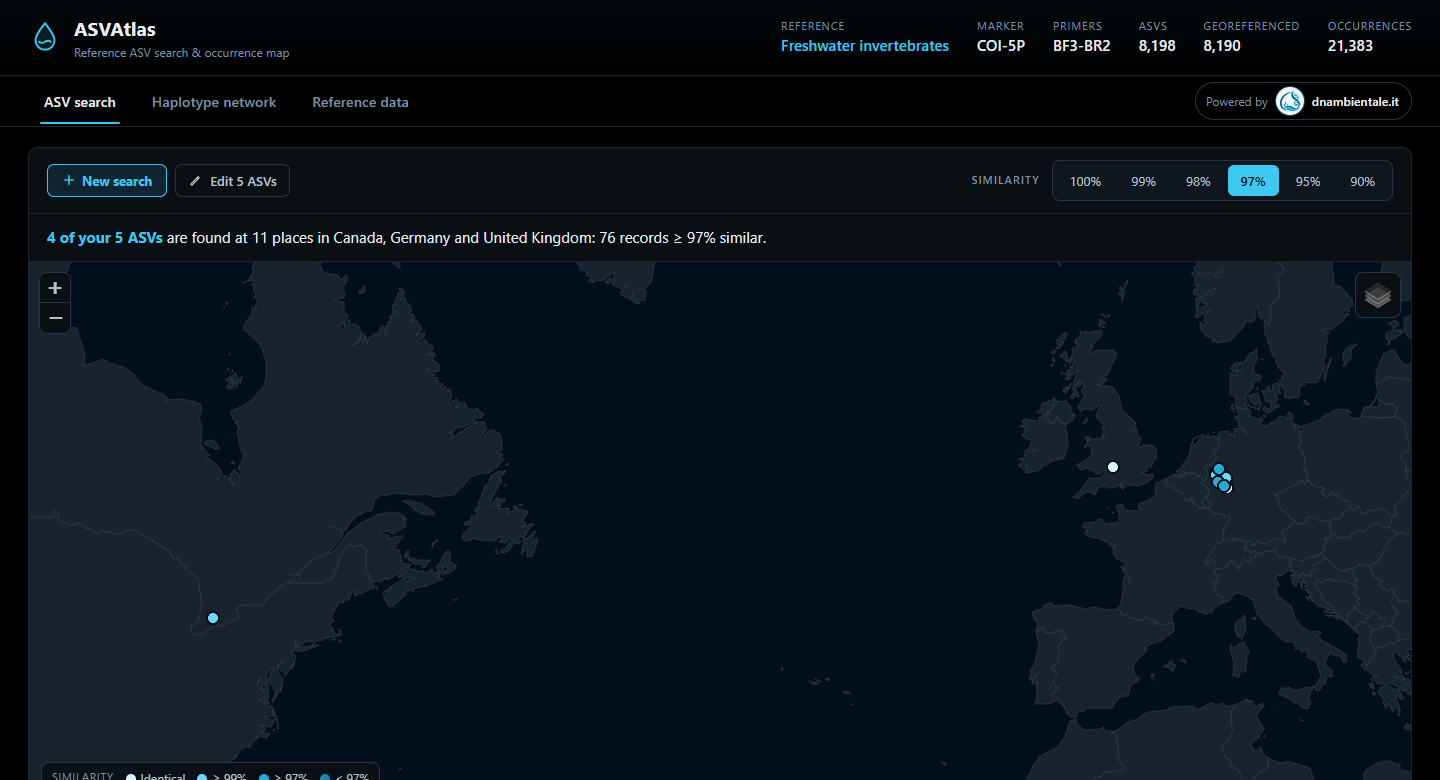
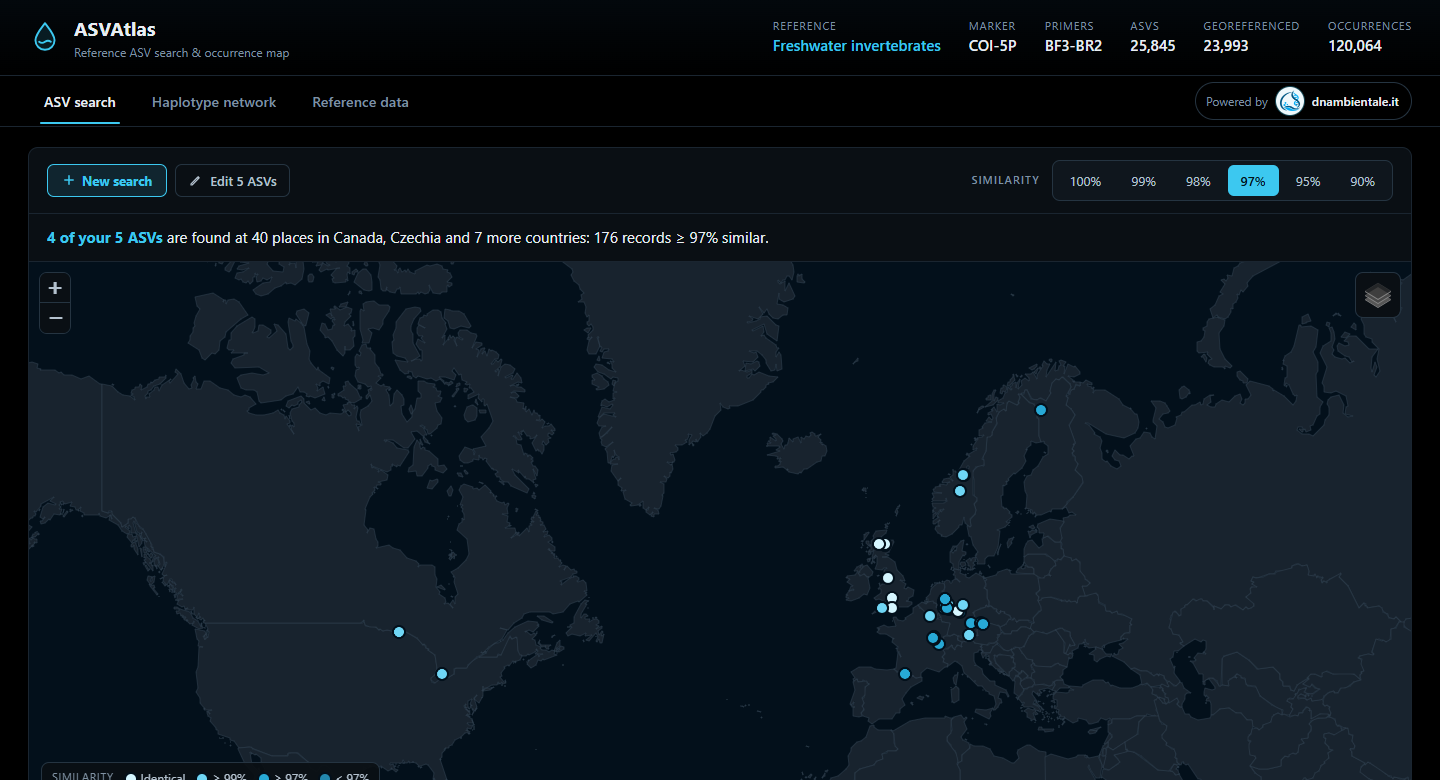
asvatlas update

diff --git a/asvatlas.html b/asvatlas.html
@@ -54,7 +54,7 @@
       <div class="project-copy">
         <p>Chi lavora con il DNA metabarcoding ottiene liste di ASV (amplicon sequence variants), sequenze esatte che spesso distinguono non solo le specie ma anche le loro varianti genetiche. ASVAtlas confronta queste sequenze con un database di riferimento e mostra su una mappa dove sequenze identiche o simili sono già state trovate in altri studi.</p>
         <p>L'uso è semplice: si incollano le ASV in formato FASTA, o si carica un file, e si sceglie la similarità, dal 100% (record identici) al 90%. Per ogni ASV l'applicazione indica la specie, i luoghi e i Paesi in cui compare. Per le specie trovate si possono costruire le reti di aplotipi (median-joining, TCS, minimum spanning network) e vedere sulla mappa quali popolazioni sono geneticamente più vicine alla propria ASV. Chi lo desidera può caricare anche le coordinate dei propri campioni, che restano nel browser, per conoscere la distanza dal record più vicino.</p>
-        <p>Il primo database, <em>Freshwater invertebrates</em>, raccoglie 8.198 ASV del COI (frammento BF3–BR2) di macroinvertebrati d'acqua dolce da 19 studi di metabarcoding in 14 Paesi, per oltre 21.000 record georeferenziati. Abbiamo rielaborato tutti gli studi dalle letture grezze con un'unica pipeline, così che le ASV di studi diversi siano confrontabili. La scheda <em>Reference data</em> dell'applicazione elenca gli studi e spiega come sono stati trattati i dati.</p>
+        <p>Il primo database, <em>Freshwater invertebrates</em>, raccoglie 25.845 aplotipi del COI di 1.344 specie di macroinvertebrati d'acqua dolce: le ASV di 19 studi di metabarcoding, che abbiamo rielaborato dalle letture grezze con un'unica pipeline, e le sequenze pubbliche di BOLD delle stesse specie. Tutte le sequenze sono ridotte allo stesso frammento, i primi 415 bp di BF3–BR2, così da essere confrontabili; in tutto sono oltre 120.000 record georeferenziati in più di 100 Paesi. La scheda <em>Reference data</em> dell'applicazione elenca gli studi e spiega come sono stati trattati i dati.</p>
 
         <blockquote class="project-callout">Confrontare le proprie ASV con quelle di altri studi permette di passare dall'elenco delle specie alla geografia della loro diversità genetica.</blockquote>
 

diff --git a/en/asvatlas.html b/en/asvatlas.html
@@ -54,7 +54,7 @@
       <div class="project-copy">
         <p>DNA metabarcoding yields lists of ASVs (amplicon sequence variants), exact sequences that often tell apart not only species but also their genetic variants. ASVAtlas compares these sequences with a reference database and shows on a map where identical or similar sequences have already been found in other studies.</p>
         <p>It is simple to use: paste your ASVs in FASTA format, or load a file, and choose the similarity, from 100% (identical records) to 90%. For each ASV the application gives the species and the places and countries where it occurs. For the species found you can build haplotype networks (median-joining, TCS, minimum spanning network) and see on the map which populations are genetically closest to your ASV. You can also load the coordinates of your samples, which stay in your browser, to see the distance to the nearest record.</p>
-        <p>The first database, <em>Freshwater invertebrates</em>, holds 8,198 COI ASVs (BF3–BR2 fragment) of freshwater macroinvertebrates from 19 metabarcoding studies in 14 countries, with more than 21,000 georeferenced records. We reprocessed all the studies from the raw reads with one pipeline, so that ASVs of different studies can be compared. The <em>Reference data</em> tab of the application lists the studies and explains how the data were processed.</p>
+        <p>The first database, <em>Freshwater invertebrates</em>, holds 25,845 COI haplotypes of 1,344 species of freshwater macroinvertebrates: the ASVs of 19 metabarcoding studies, which we reprocessed from the raw reads with one pipeline, and the public BOLD sequences of the same species. All sequences are reduced to the same fragment, the first 415 bp of BF3–BR2, so that they can be compared; together they make more than 120,000 georeferenced records in over 100 countries. The <em>Reference data</em> tab of the application lists the studies and explains how the data were processed.</p>
 
         <blockquote class="project-callout">Comparing your ASVs with those of other studies turns a list of species into a map of their genetic diversity.</blockquote>
 

diff --git a/ricerca.html b/ricerca.html
@@ -97,8 +97,8 @@
         </div>
         <div class="card" id="05">
           <span class="num">05</span>
-          <h3>ASVAtlas: le ASV di riferimento sulla mappa del mondo</h3>
-          <p>Un'applicazione web per cercare le proprie ASV in un database di riferimento, vedere dove sono state trovate e confrontarle nelle reti di aplotipi. Il primo database riunisce 8.198 ASV del COI di macroinvertebrati d'acqua dolce da 19 studi.</p>
+          <h3>ASVAtlas: dove si trova nel mondo la tua ASV?</h3>
+          <p>Un'applicazione web per cercare le proprie ASV in un database di riferimento, vedere dove sono state trovate e confrontarle nelle reti di aplotipi. Il primo database riunisce 25.845 aplotipi del COI di 1.344 specie di macroinvertebrati d'acqua dolce, da 19 studi di metabarcoding e da BOLD.</p>
           <a class="card-link" href="asvatlas.html">Scopri di più →</a>
         </div>
       </div>

diff --git a/en/research.html b/en/research.html
@@ -97,8 +97,8 @@
         </div>
         <div class="card" id="05">
           <span class="num">05</span>
-          <h3>ASVAtlas: reference ASVs on the world map</h3>
-          <p>A web application to search your ASVs in a reference database, see where they have been found and compare them in haplotype networks. The first database brings together 8,198 COI ASVs of freshwater macroinvertebrates from 19 studies.</p>
+          <h3>ASVAtlas: where in the world is your ASV?</h3>
+          <p>A web application to search your ASVs in a reference database, see where they have been found and compare them in haplotype networks. The first database brings together 25,845 COI haplotypes of 1,344 species of freshwater macroinvertebrates, from 19 metabarcoding studies and BOLD.</p>
           <a class="card-link" href="asvatlas.html">Learn more →</a>
         </div>
       </div>
